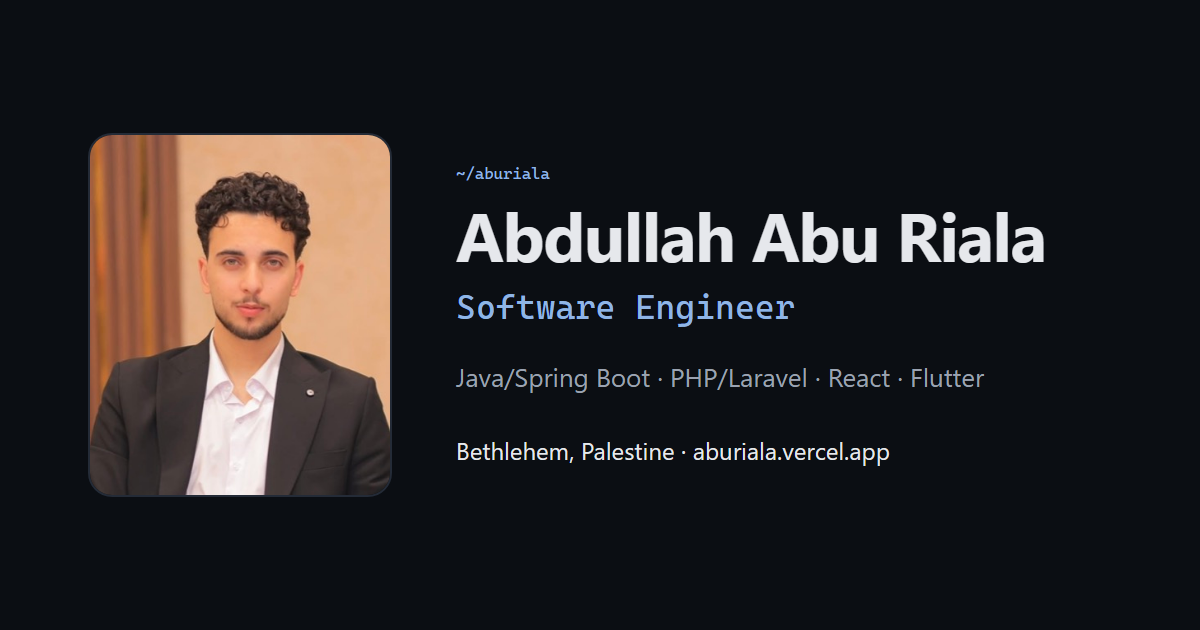
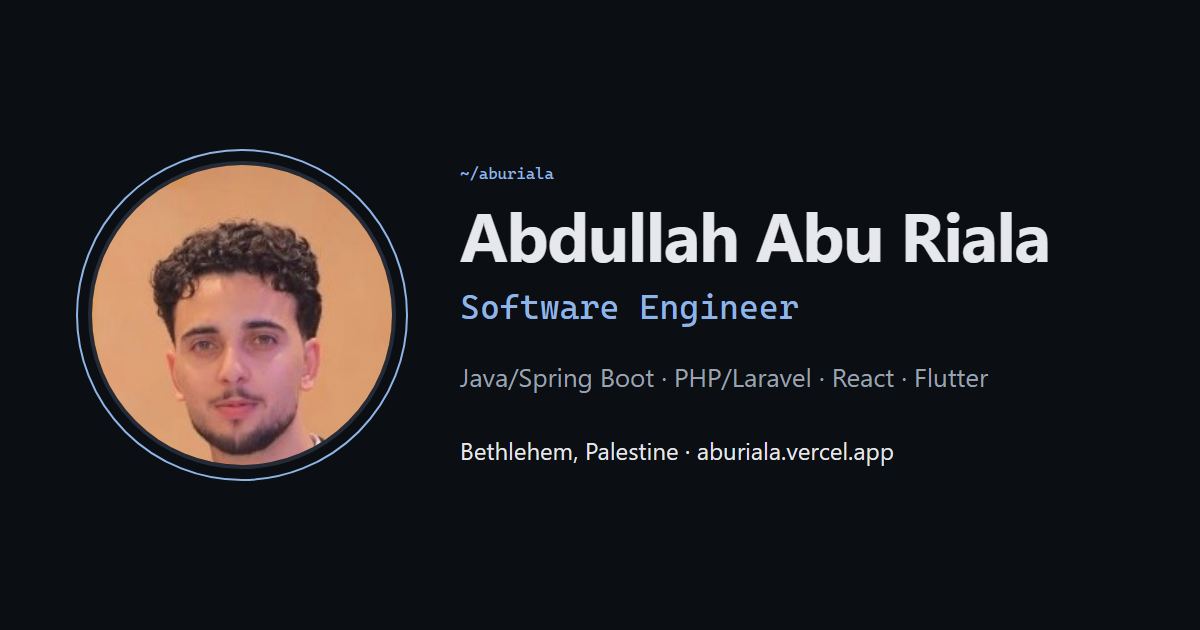
Use new profile photo and describe the team project accurately
- Circular hero portrait and updated social preview image
- Social Media Platform: team of three, Microservices course

diff --git a/scripts/og-image.html b/scripts/og-image.html
@@ -19,10 +19,12 @@
       }
       img {
         width: 300px;
-        height: 360px;
+        height: 300px;
         object-fit: cover;
-        border-radius: 24px;
-        border: 2px solid #242b37;
+        border-radius: 50%;
+        border: 4px solid #242b37;
+        outline: 2px solid #8fb5e6;
+        outline-offset: 10px;
         flex-shrink: 0;
       }
       .mono {

diff --git a/src/content/projects/social-media-platform.md b/src/content/projects/social-media-platform.md
@@ -2,8 +2,8 @@
 title: Social Media Platform
 tagline: Full-stack social network on microservices
 summary: A full-stack social platform with secure authentication, real-time messaging and notifications, later refactored into microservices.
-role: Designed the UI in Figma and built the backend and frontend.
-context: Full-stack project
+role: Team of three. We designed and built every part together, from the Figma UI to the backend and frontend.
+context: University team project · Microservices course
 stack: [Java, Spring Boot, JWT, OAuth2, SSL, React, TypeScript, Microservices, Figma]
 cover: ../../assets/projects/social-media-data-model.png
 coverAlt: Database diagram of the social media platform with users, posts, comments, likes, shares, friendships, messages and roles
@@ -11,12 +11,16 @@ repo: https://github.com/S24-SWER313/project-404
 order: 3
 ---
 
-## What I built
+## What we built
 
 - A **full-stack social platform** with secure authentication, real-time messaging and notifications.
 - **Backend** in Java and Spring Boot, secured with JWT, OAuth2 and SSL.
-- **Frontend** in React and TypeScript, based on a UI I designed in Figma.
+- **Frontend** in React and TypeScript, based on a UI we designed in Figma.
 
 ## Architecture
 
-The application started as a single service and was then **refactored into a microservices architecture**, splitting responsibilities into independent services that can be developed and deployed separately.
+The application started as a single service and was then **refactored into a microservices architecture** as part of a university course on microservices, splitting responsibilities into independent services that can be developed and deployed separately.
+
+## How we worked
+
+We were a team of three and built the project together, working on every part as a group. The code was pushed to the course repository from one teammate's machine, so the commit history shows a single author.
